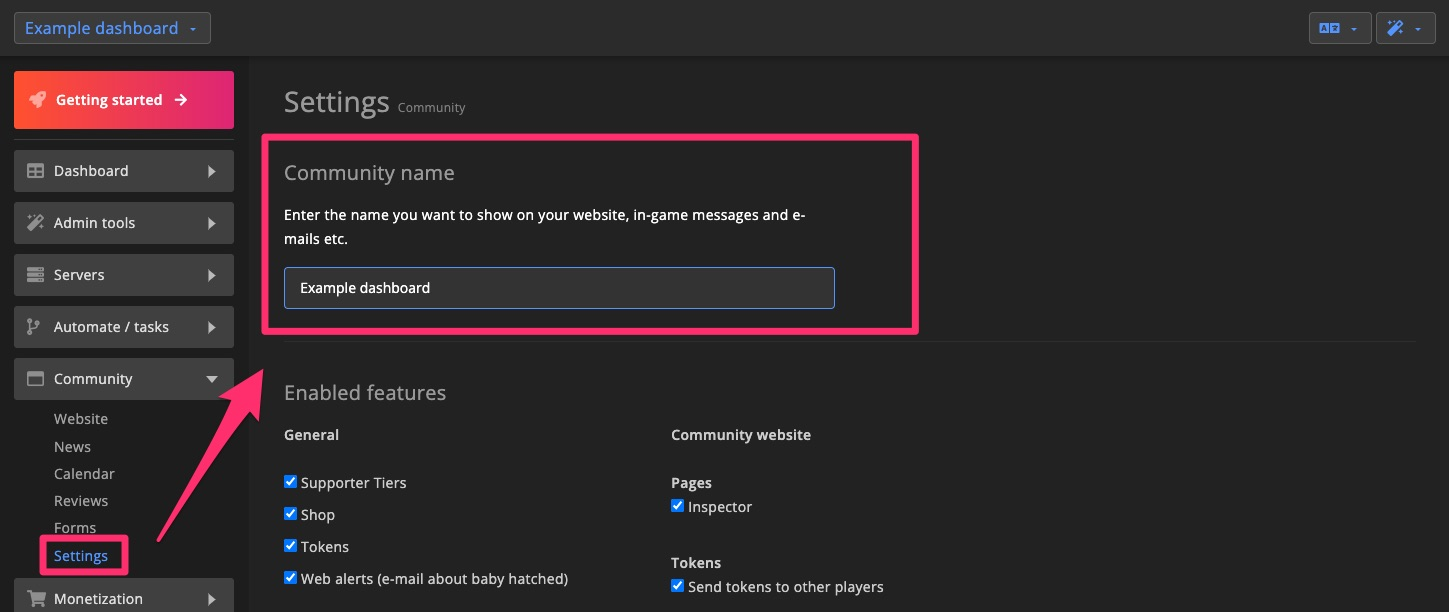
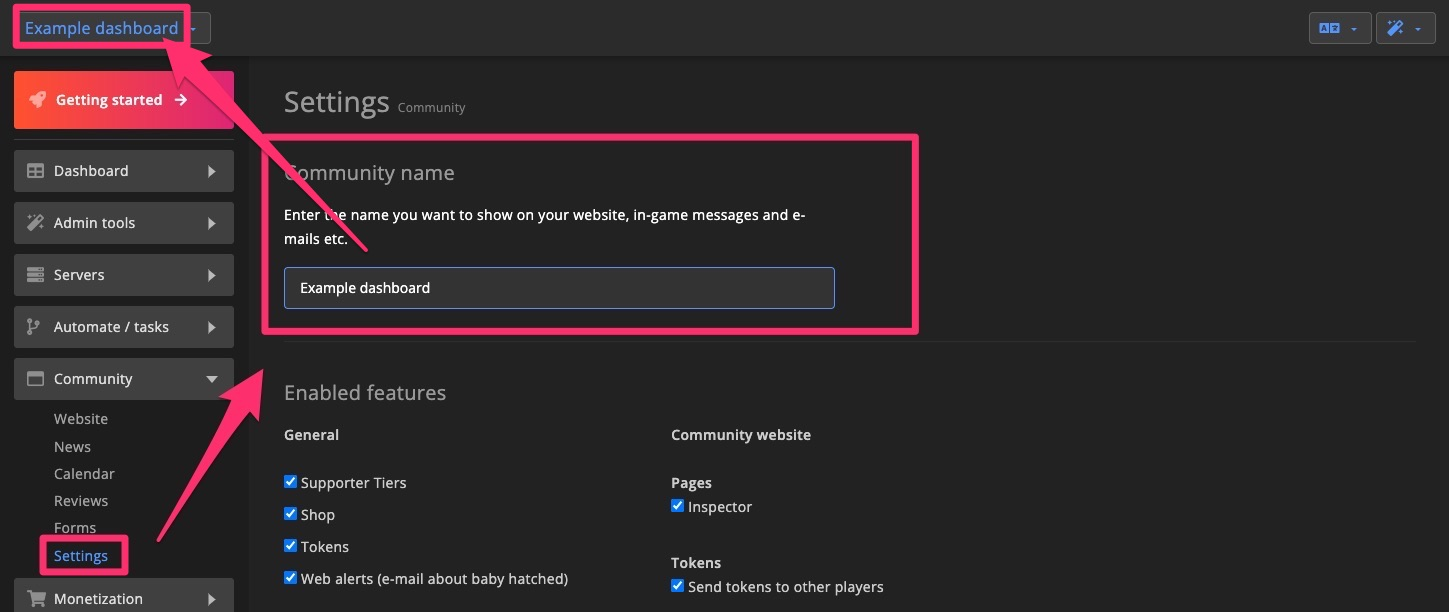
add name example

Changed region(s): [[0.0, 0.0, 0.1863, 0.2484], [0.2174, 0.3105, 0.2484, 0.4036], [0.1863, 0.2484, 0.2174, 0.3105]]

diff --git a/Documentation/docs/dashboard/community/getting_started.md b/Documentation/docs/dashboard/community/getting_started.md
@@ -82,6 +82,9 @@ Configure the community name which is used on the dashboard and the Community we
 
 ![Community - Settings - Community name](/img/dashboard/community/getting_started/community_settings_1.jpg)
 
+![Community - Settings - Community name example](/img/dashboard/community/getting_started/community_settings_name_example.jpg)
+
+
 ### Enabled features
 Enable / Disable features for the dashboard. This affects the Community website and Discord bot too.
 
